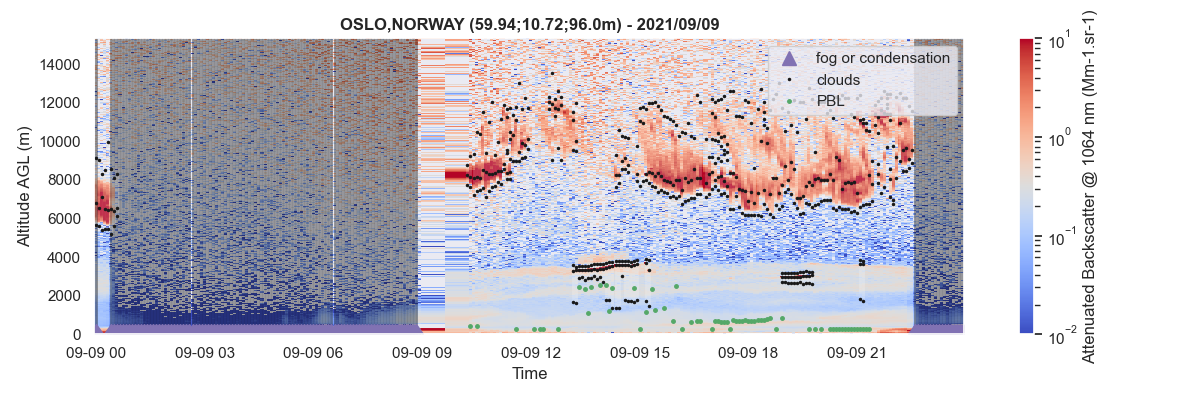
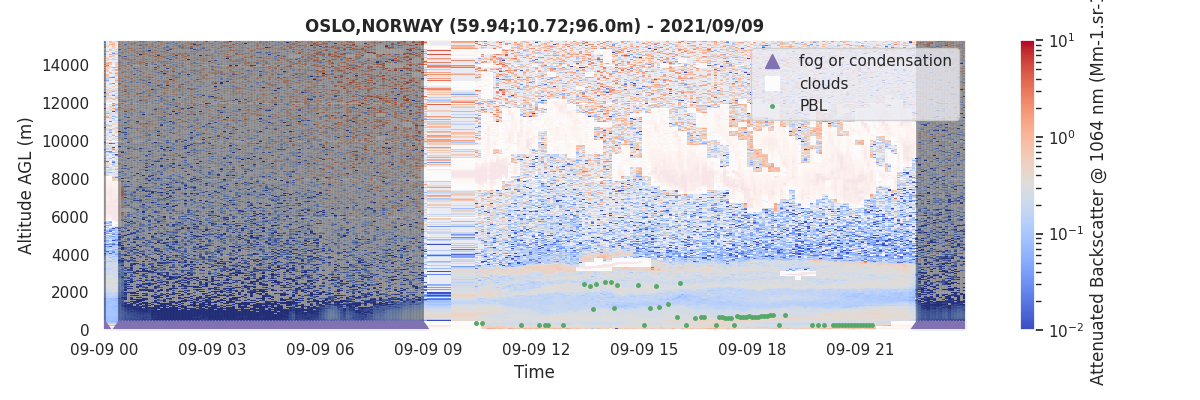
update readme images

diff --git a/main.py b/main.py
@@ -49,14 +49,17 @@ def main(path):
     
     profiles.plot(
         zref='agl', show_foc=True, show_clouds=True, show_pbl=True, log=True, vmin=1e-2, vmax=1e1, 
-        #save_fig="docs/assets/images/QL-Fog&Clouds&PBL-Oslo-20210909.png"
+        save_fig="docs/assets/images/QL-Fog&Clouds&PBL-Oslo-20210909.png"
     )
     
     # plot single profile
     # datetime = np.datetime64('2021-09-09T19:25:00')
     datetime = np.datetime64('2021-09-09T21:20:00')
     # datetime = np.datetime64('2021-09-09T10:25:00')
-    profiles.plot(datetime=datetime, vmin=-1, vmax=10, zmax=12000, show_foc=False, show_clouds=True, show_pbl=True)#, save_fig="docs/assets/images/Profile-Oslo-20210909T212005.png")
+    profiles.plot(
+        datetime=datetime, vmin=-1, vmax=10, zmax=12000, show_foc=False, show_clouds=True, show_pbl=True,
+        save_fig="docs/assets/images/Profile-Oslo-20210909T212005.png"
+    )
 
     # aerosol inversion
 
